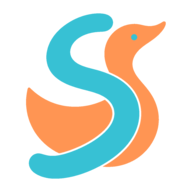
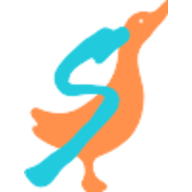
Update privacy policy page and assets
- Updated stylesheet version in privacidad.html
- Added SVG favicon and updated references in HTML
- Updated logo SVG file for Piscinas Yuriy
- Revised text for Google Maps description in privacy policy
- Improved accessibility with aria-label for logo link

diff --git a/index.html b/index.html
@@ -68,12 +68,13 @@
       imagesizes="100vw"
       fetchpriority="high"
     />
-    <link rel="stylesheet" href="css/styles.css?v=20260905-2" />
-    <link rel="icon" type="image/png" sizes="32x32" href="/assets/favicon-32.png" />
-    <link rel="icon" type="image/png" sizes="16x16" href="/assets/favicon-16.png" />
-    <link rel="icon" href="/assets/favicon.ico" sizes="any" />
-    <link rel="apple-touch-icon" sizes="180x180" href="/assets/apple-touch-icon.png" />
-    <link rel="manifest" href="/assets/site.webmanifest" />
+    <link rel="stylesheet" href="css/styles.css?v=20260905-3" />
+    <link rel="icon" href="/assets/favicon.svg?v=20260905-3" type="image/svg+xml" />
+    <link rel="icon" type="image/png" sizes="32x32" href="/assets/favicon-32.png?v=20260905-3" />
+    <link rel="icon" type="image/png" sizes="16x16" href="/assets/favicon-16.png?v=20260905-3" />
+    <link rel="icon" href="/assets/favicon.ico?v=20260905-3" sizes="any" />
+    <link rel="apple-touch-icon" sizes="180x180" href="/assets/apple-touch-icon.png?v=20260905-3" />
+    <link rel="manifest" href="/assets/site.webmanifest?v=20260905-3" />
     <noscript>
       <!-- Without JS the IntersectionObserver never runs, so reveal targets
            would stay at opacity 0 and hide most of the page -->
@@ -100,8 +101,8 @@
         document.documentElement.classList.add("has-cookie-banner");
       }
     </script>
-    <!-- ADR-013: one JSON-LD @graph per page; opening hours and sameAs stay out
-         until the client confirms hours and the Google Business Profile exists -->
+    <!-- ADR-013: one JSON-LD @graph per page; sameAs stays out until the Google
+         Business Profile exists -->
     <script type="application/ld+json">
       {
         "@context": "https://schema.org",
@@ -115,6 +116,12 @@
             "description": "Construcción y reforma de piscinas de obra en la Comunidad Valenciana.",
             "telephone": "+34678948509",
             "currenciesAccepted": "EUR",
+            "openingHoursSpecification": {
+              "@type": "OpeningHoursSpecification",
+              "dayOfWeek": ["Monday", "Tuesday", "Wednesday", "Thursday", "Friday"],
+              "opens": "09:00",
+              "closes": "18:00"
+            },
             "vatID": "ESB56728777",
             "taxID": "B56728777",
             "address": {
@@ -273,7 +280,7 @@
     <!-- site-header:start -->
     <header class="site-header" id="site-header">
       <div class="container">
-        <a class="logo" href="#top">Piscinas <span>Yuriy</span></a>
+        <a class="logo" href="#top" aria-label="Piscinas Yuriy, inicio"><img class="logo-img" src="assets/logo-piscinas-yuriy.svg?v=20260905-3" alt="Piscinas Yuriy" width="210" height="48" /></a>
         <ul class="site-nav" id="site-nav">
           <li><a href="#servicios">Servicios</a></li>
           <li><a href="#galeria">Galería</a></li>
@@ -523,6 +530,9 @@
                 <li>
                   Instalaciones técnicas completas: filtración, cloración
                   salina, control de pH, bombas de calor y cuadros eléctricos.
+                </li>
+                <li>
+                  20 años de experiencia y más de 5000 piscinas construidas.
                 </li>
                 <li>Visita, medición y presupuesto sin compromiso.</li>
               </ul>
@@ -887,21 +897,13 @@
               </p>
             </div>
             <div class="map-card reveal">
-              <!-- ADR-018: no Google request before an explicit click. js/main.js
-                   swaps this placeholder for the iframe named in data-map-src -->
-              <div
-                class="map-consent"
-                id="map-consent"
-                data-map-src="https://www.google.com/maps?ll=38.8433,-0.1156&q=Pego,%20Alicante,%20Espa%C3%B1a&z=9&output=embed"
-              >
-                <p>
-                  El mapa se carga desde Google Maps. Al abrirlo, Google puede
-                  recibir tu dirección IP y aplicar sus propias cookies.
-                </p>
-                <button class="btn btn-accent" type="button" id="map-load">
-                  Cargar el mapa
-                </button>
-              </div>
+              <iframe
+                src="https://www.google.com/maps?q=38.8433,-0.1156(Piscinas%20Yuriy%2C%20Pego)&z=9&output=embed"
+                title="Mapa de la zona de trabajo, con base en Pego"
+                loading="lazy"
+                referrerpolicy="no-referrer-when-downgrade"
+                allowfullscreen
+              ></iframe>
             </div>
           </div>
         </div>
@@ -1020,8 +1022,8 @@
       <div class="container">
         <div class="footer-grid">
           <div>
-            <a class="logo" href="#top" style="color: #fff"
-              >Piscinas <span>Yuriy</span></a
+            <a class="logo logo-footer" href="#top" aria-label="Piscinas Yuriy, inicio"
+              ><img class="logo-img" src="assets/logo-piscinas-yuriy.svg?v=20260905-3" alt="Piscinas Yuriy" width="210" height="48" /></a
             >
             <p>
               Construcción, reforma y mantenimiento de piscinas en Alicante y

diff --git a/legal/privacidad.html b/legal/privacidad.html
@@ -11,17 +11,18 @@
       type="font/woff2"
       crossorigin
     />
-    <link rel="stylesheet" href="../css/styles.css?v=20260905-2" />
-    <link rel="icon" type="image/png" sizes="32x32" href="/assets/favicon-32.png" />
-    <link rel="icon" type="image/png" sizes="16x16" href="/assets/favicon-16.png" />
-    <link rel="icon" href="/assets/favicon.ico" sizes="any" />
-    <link rel="apple-touch-icon" sizes="180x180" href="/assets/apple-touch-icon.png" />
-    <link rel="manifest" href="/assets/site.webmanifest" />
+    <link rel="stylesheet" href="../css/styles.css?v=20260905-3" />
+    <link rel="icon" href="/assets/favicon.svg?v=20260905-3" type="image/svg+xml" />
+    <link rel="icon" type="image/png" sizes="32x32" href="/assets/favicon-32.png?v=20260905-3" />
+    <link rel="icon" type="image/png" sizes="16x16" href="/assets/favicon-16.png?v=20260905-3" />
+    <link rel="icon" href="/assets/favicon.ico?v=20260905-3" sizes="any" />
+    <link rel="apple-touch-icon" sizes="180x180" href="/assets/apple-touch-icon.png?v=20260905-3" />
+    <link rel="manifest" href="/assets/site.webmanifest?v=20260905-3" />
   </head>
   <body>
     <header class="site-header is-scrolled">
       <div class="container">
-        <a class="logo" href="../index.html">Piscinas <span>Yuriy</span></a>
+        <a class="logo" href="../index.html" aria-label="Piscinas Yuriy, inicio"><img class="logo-img" src="../assets/logo-piscinas-yuriy.svg?v=20260905-3" alt="Piscinas Yuriy" width="210" height="48" /></a>
       </div>
     </header>
 
@@ -150,8 +151,8 @@
             analíticas.
           </li>
           <li>
-            <strong>Google Maps (Google Ireland Limited):</strong> muestra de forma permanente el
-            mapa de la Comunidad Valenciana.
+            <strong>Google Maps (Google Ireland Limited):</strong> muestra el mapa de la zona de
+            trabajo en la página de inicio.
           </li>
           <li>
             <strong>GitHub Pages (GitHub, Inc.):</strong> aloja el sitio web y recibe, por tanto,
@@ -300,11 +301,10 @@
 
         <h3>Mapa de Google Maps</h3>
         <p>
-          El mapa interactivo de Google Maps <strong>no se carga automáticamente</strong>: en su
-          lugar se muestra un aviso con un botón. Hasta que el usuario pulsa ese botón no se realiza
-          ninguna petición a Google ni se instala ninguna cookie de este servicio. Al cargar el
-          mapa, Google puede recibir la dirección IP y aplicar las cookies y el tratamiento de datos
-          asociados a este servicio.
+          El mapa de la zona de trabajo se muestra mediante Google Maps y se carga al abrir la
+          página. Al cargarse, Google puede recibir la dirección IP del usuario y aplicar las
+          cookies y el tratamiento de datos asociados a este servicio, conforme a su propia
+          política de privacidad.
         </p>
       </section>
     </main>

diff --git a/css/styles.css b/css/styles.css
@@ -168,27 +168,30 @@ header.site-header .container {
 }
 
 .logo {
-  font-weight: 800;
-  color: var(--text-on-dark);
+  display: flex;
+  align-items: center;
   text-decoration: none;
-  font-size: clamp(1rem, 4vw, 1.25rem);
-  white-space: nowrap;
   flex-shrink: 0;
-  transition: color 0.3s ease;
 }
 
-.is-scrolled .logo,
-.is-menu-open .logo {
-  color: var(--color-text);
+.logo-img {
+  width: auto;
+  height: clamp(1.75rem, 6vw, 2.25rem);
+  /* Cyan wordmark disappears on the bright hero photo: render it white until
+     the header gets its own light background on scroll */
+  filter: brightness(0) invert(1) drop-shadow(0 1px 3px rgba(3, 4, 94, 0.45));
+  transition: filter 0.3s ease;
 }
 
-.logo span {
-  color: var(--tone-500);
+.is-scrolled .logo-img,
+.is-menu-open .logo-img {
+  filter: none;
 }
 
-.is-scrolled .logo span,
-.is-menu-open .logo span {
-  color: var(--tone-700);
+.logo-footer .logo-img {
+  height: 2.25rem;
+  margin-bottom: 0.75rem;
+  filter: brightness(0) invert(1);
 }
 
 .site-nav {
@@ -857,11 +860,11 @@ details.faq-item summary {
   box-shadow: 0 16px 40px rgba(0, 0, 0, 0.25);
 }
 
-.map-card iframe,
-.map-card .map-consent {
+.map-card iframe {
   width: 100%;
   aspect-ratio: 4 / 3;
   border: 0;
+  display: block;
 }
 
 /* ---------- Contact ---------- */
@@ -1026,26 +1029,6 @@ footer.site-footer {
   .process-progress {
     transition: none;
   }
-}
-
-/* ---------- Consent-gated map ---------- */
-
-.map-consent {
-  display: flex;
-  flex-direction: column;
-  align-items: center;
-  justify-content: center;
-  gap: 0.875rem;
-  padding: 1.5rem;
-  text-align: center;
-  background: var(--tone-50);
-  color: var(--color-text);
-}
-
-.map-consent p {
-  margin: 0;
-  font-size: 0.8125rem;
-  max-width: 24rem;
 }
 
 /* ---------- Cookie consent banner ---------- */

diff --git a/legal/aviso-legal.html b/legal/aviso-legal.html
@@ -11,17 +11,18 @@
       type="font/woff2"
       crossorigin
     />
-    <link rel="stylesheet" href="../css/styles.css?v=20260905-2" />
-    <link rel="icon" type="image/png" sizes="32x32" href="/assets/favicon-32.png" />
-    <link rel="icon" type="image/png" sizes="16x16" href="/assets/favicon-16.png" />
-    <link rel="icon" href="/assets/favicon.ico" sizes="any" />
-    <link rel="apple-touch-icon" sizes="180x180" href="/assets/apple-touch-icon.png" />
-    <link rel="manifest" href="/assets/site.webmanifest" />
+    <link rel="stylesheet" href="../css/styles.css?v=20260905-3" />
+    <link rel="icon" href="/assets/favicon.svg?v=20260905-3" type="image/svg+xml" />
+    <link rel="icon" type="image/png" sizes="32x32" href="/assets/favicon-32.png?v=20260905-3" />
+    <link rel="icon" type="image/png" sizes="16x16" href="/assets/favicon-16.png?v=20260905-3" />
+    <link rel="icon" href="/assets/favicon.ico?v=20260905-3" sizes="any" />
+    <link rel="apple-touch-icon" sizes="180x180" href="/assets/apple-touch-icon.png?v=20260905-3" />
+    <link rel="manifest" href="/assets/site.webmanifest?v=20260905-3" />
   </head>
   <body>
     <header class="site-header is-scrolled">
       <div class="container">
-        <a class="logo" href="../index.html">Piscinas <span>Yuriy</span></a>
+        <a class="logo" href="../index.html" aria-label="Piscinas Yuriy, inicio"><img class="logo-img" src="../assets/logo-piscinas-yuriy.svg?v=20260905-3" alt="Piscinas Yuriy" width="210" height="48" /></a>
       </div>
     </header>
 

diff --git a/404.html b/404.html
@@ -12,17 +12,18 @@
       type="font/woff2"
       crossorigin
     />
-    <link rel="stylesheet" href="/css/styles.css?v=20260905-2" />
-    <link rel="icon" type="image/png" sizes="32x32" href="/assets/favicon-32.png" />
-    <link rel="icon" type="image/png" sizes="16x16" href="/assets/favicon-16.png" />
-    <link rel="icon" href="/assets/favicon.ico" sizes="any" />
-    <link rel="apple-touch-icon" sizes="180x180" href="/assets/apple-touch-icon.png" />
-    <link rel="manifest" href="/assets/site.webmanifest" />
+    <link rel="stylesheet" href="/css/styles.css?v=20260905-3" />
+    <link rel="icon" href="/assets/favicon.svg?v=20260905-3" type="image/svg+xml" />
+    <link rel="icon" type="image/png" sizes="32x32" href="/assets/favicon-32.png?v=20260905-3" />
+    <link rel="icon" type="image/png" sizes="16x16" href="/assets/favicon-16.png?v=20260905-3" />
+    <link rel="icon" href="/assets/favicon.ico?v=20260905-3" sizes="any" />
+    <link rel="apple-touch-icon" sizes="180x180" href="/assets/apple-touch-icon.png?v=20260905-3" />
+    <link rel="manifest" href="/assets/site.webmanifest?v=20260905-3" />
   </head>
   <body>
     <header class="site-header" id="site-header">
       <div class="container">
-        <a class="logo" href="/">Piscinas <span>Yuriy</span></a>
+        <a class="logo" href="/" aria-label="Piscinas Yuriy, inicio"><img class="logo-img" src="/assets/logo-piscinas-yuriy.svg?v=20260905-3" alt="Piscinas Yuriy" width="210" height="48" /></a>
       </div>
     </header>
 

diff --git a/js/main.js b/js/main.js
@@ -151,20 +151,6 @@ document.addEventListener("DOMContentLoaded", () => {
     link.addEventListener("click", () => trackEvent("click_call"));
   });
 
-  const mapPlaceholder = document.querySelector("#map-consent");
-  const mapButton = document.querySelector("#map-load");
-  if (mapPlaceholder && mapButton) {
-    mapButton.addEventListener("click", () => {
-      const iframe = document.createElement("iframe");
-      iframe.src = mapPlaceholder.dataset.mapSrc;
-      iframe.title = "Mapa de la zona de trabajo, con base en Pego";
-      iframe.loading = "lazy";
-      iframe.referrerPolicy = "no-referrer-when-downgrade";
-      iframe.allowFullscreen = true;
-      mapPlaceholder.replaceWith(iframe);
-    });
-  }
-
   const form = document.querySelector("#contact-form");
   if (form) initContactForm(form);
 
